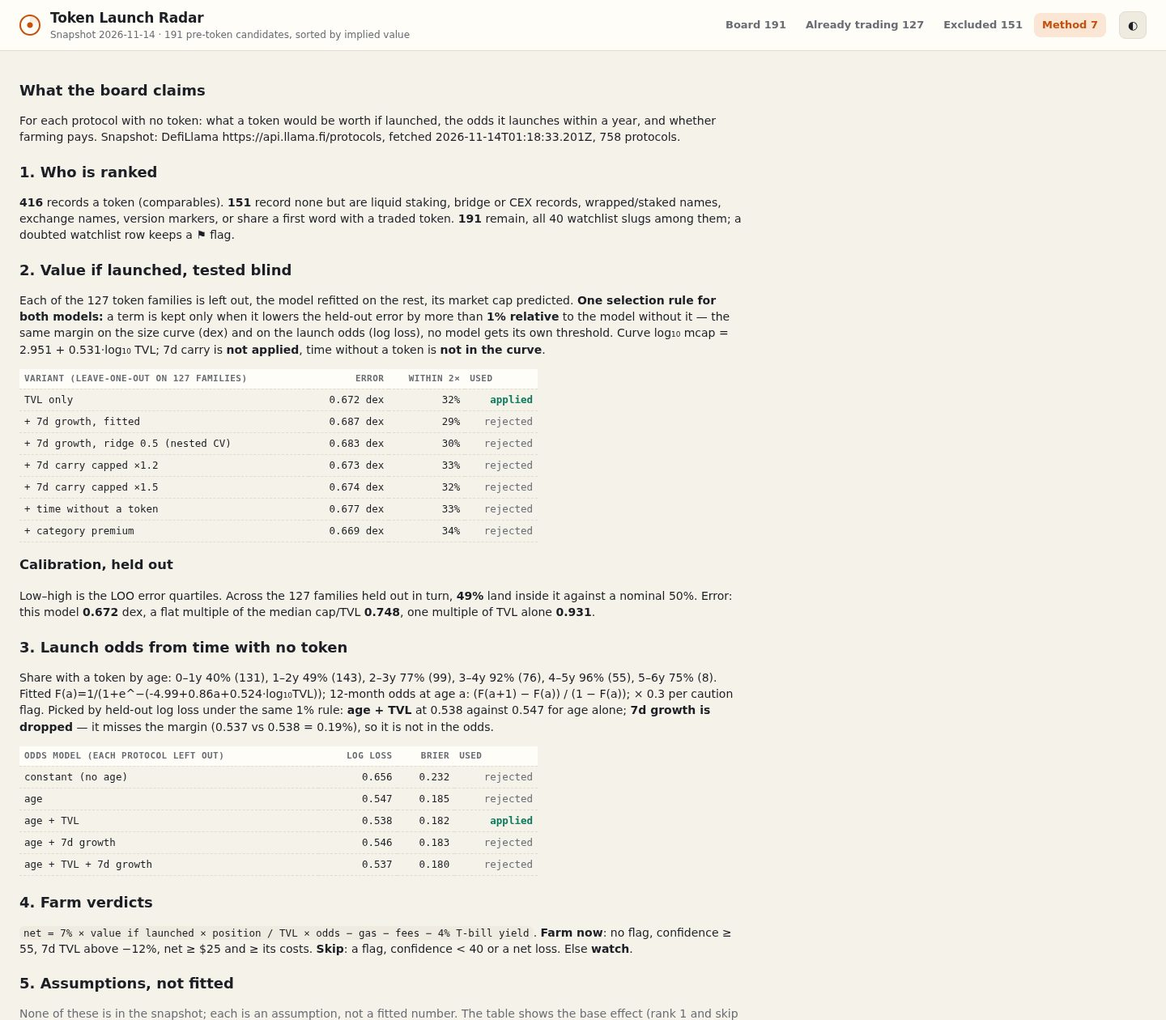
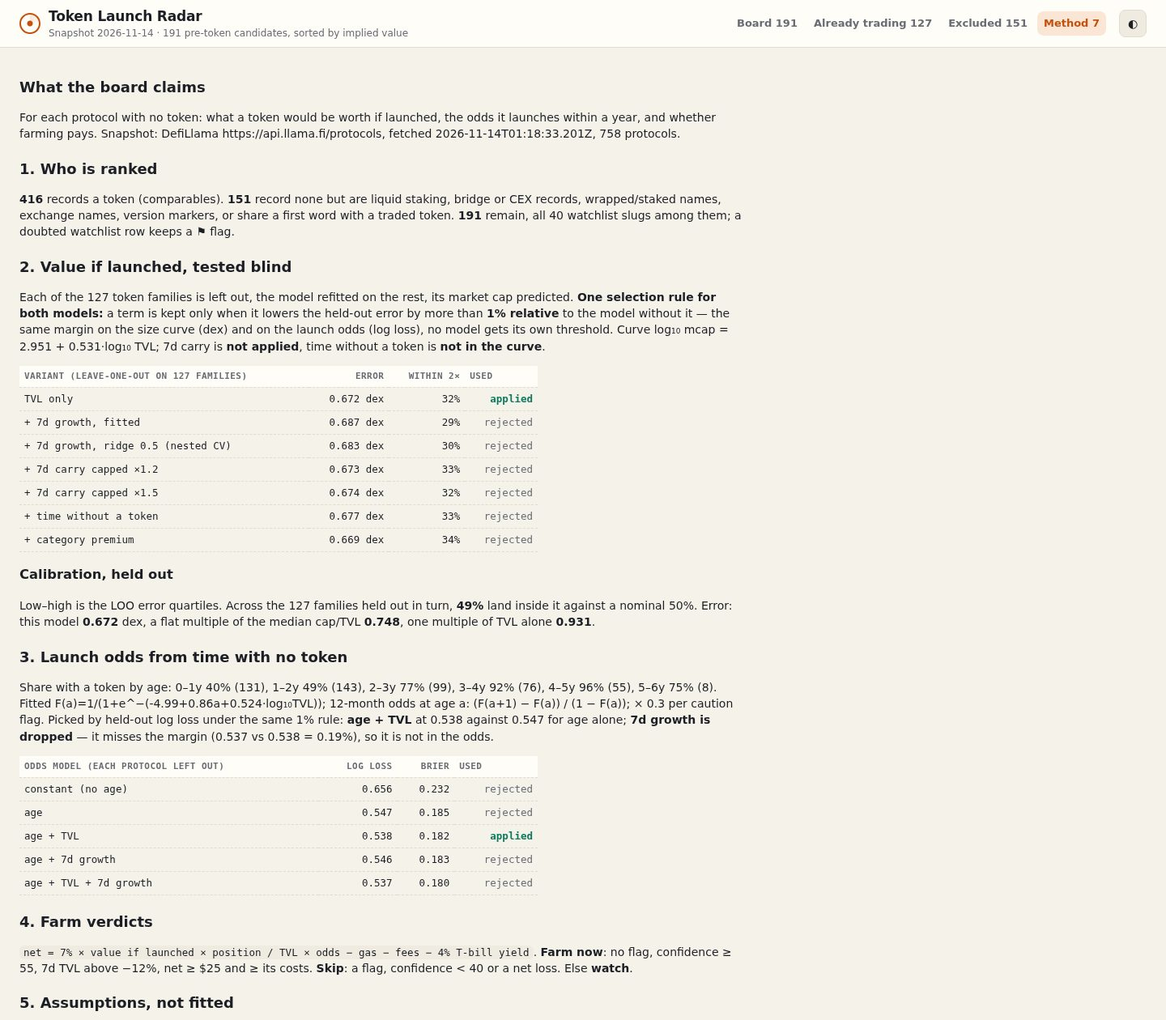
radar-v10: rewrite dashboard/app.css end to end (tokens + grouped sections, same look); board/data byte-identical, 18/18, shots 6/6

diff --git a/dashboard/app.css b/dashboard/app.css
@@ -1,21 +1,79 @@
+/* ============================================================================
+   Token Launch Radar — stylesheet
+   One palette, one type scale, one spacing scale. Every colour and every gap is
+   a custom property, so the light and dark themes differ only in the token
+   values at the top. Sections: tokens · base · header · KPI tiles · value strip
+   · checks · filters · table · compare tray · detail sheet · method · responsive.
+   The layout, sizes and colours match the v9 page exactly.
+   ========================================================================== */
+
+/* ---- tokens: colour, spacing, radius, type -------------------------------- */
 :root {
-  --bg: #f5f2ea; --card: #fffdf7; --sunk: #efebe0; --ink: #1b1e24; --muted: #686c75; --line: #e1dccf;
-  --accent: #c4500e; --accent-soft: #fbe6d6; --pos: #0e7a5f; --neg: #b3261e; --warn: #a86a00;
-  --now: #0e7a5f; --now-bg: #d9f1e8; --watch: #8a5a00; --watch-bg: #fbecc7; --skip: #5f636b; --skip-bg: #e8e6e0;
-  --peer: #9aa3b2; --hi: #c4500e; --shadow: 0 1px 2px rgb(30 25 10 / 6%), 0 8px 24px rgb(30 25 10 / 6%);
+  --bg: #f5f2ea;
+  --card: #fffdf7;
+  --sunk: #efebe0;
+  --ink: #1b1e24;
+  --muted: #686c75;
+  --line: #e1dccf;
+  --accent: #c4500e;
+  --accent-soft: #fbe6d6;
+  --pos: #0e7a5f;
+  --neg: #b3261e;
+  --warn: #a86a00;
+  --now: #0e7a5f;
+  --now-bg: #d9f1e8;
+  --watch: #8a5a00;
+  --watch-bg: #fbecc7;
+  --skip: #5f636b;
+  --skip-bg: #e8e6e0;
+  --peer: #9aa3b2;
+  --hi: #c4500e;
+  --shadow: 0 1px 2px rgb(30 25 10 / 6%), 0 8px 24px rgb(30 25 10 / 6%);
+
   --r: 10px;
+  --r-sm: 8px;
+  --r-pill: 999px;
+
+  --s1: 1px;
+  --s2: 2px;
+  --s3: 4px;
+  --s4: 6px;
+  --s5: 8px;
+  --s6: 10px;
+  --s7: 12px;
+  --s8: 16px;
+  --s9: 20px;
+  --s10: 24px;
+
   --sans: ui-sans-serif, system-ui, -apple-system, "Segoe UI", Roboto, "Helvetica Neue", Arial, sans-serif;
   --mono: ui-monospace, "SF Mono", Menlo, Consolas, monospace;
   color-scheme: light;
 }
 :root[data-theme="dark"] {
-  --bg: #0d1015; --card: #151920; --sunk: #10141a; --ink: #e9e6df; --muted: #9399a4; --line: #252b35;
-  --accent: #ff8a3d; --accent-soft: #3a2414; --pos: #3ccf9a; --neg: #ff7b72; --warn: #e5a93a;
-  --now: #3ccf9a; --now-bg: #12342a; --watch: #f0b54a; --watch-bg: #3a2e12; --skip: #a3a8b1; --skip-bg: #23272e;
-  --peer: #5b6474; --hi: #ff8a3d; --shadow: 0 1px 2px rgb(0 0 0 / 30%), 0 8px 24px rgb(0 0 0 / 25%);
+  --bg: #0d1015;
+  --card: #151920;
+  --sunk: #10141a;
+  --ink: #e9e6df;
+  --muted: #9399a4;
+  --line: #252b35;
+  --accent: #ff8a3d;
+  --accent-soft: #3a2414;
+  --pos: #3ccf9a;
+  --neg: #ff7b72;
+  --warn: #e5a93a;
+  --now: #3ccf9a;
+  --now-bg: #12342a;
+  --watch: #f0b54a;
+  --watch-bg: #3a2e12;
+  --skip: #a3a8b1;
+  --skip-bg: #23272e;
+  --peer: #5b6474;
+  --hi: #ff8a3d;
+  --shadow: 0 1px 2px rgb(0 0 0 / 30%), 0 8px 24px rgb(0 0 0 / 25%);
   color-scheme: dark;
 }
 
+/* ---- base ---------------------------------------------------------------- */
 * { box-sizing: border-box; }
 html { -webkit-text-size-adjust: 100%; }
 body { margin: 0; background: var(--bg); color: var(--ink); font: 14px/1.45 var(--sans); }
@@ -25,86 +83,94 @@ button, input, select { font: inherit; color: inherit; }
 .muted { color: var(--muted); }
 .sr { position: absolute; width: 1px; height: 1px; overflow: hidden; clip: rect(0 0 0 0); white-space: nowrap; }
 
-.top { display: flex; align-items: center; gap: 16px; padding: 10px 24px; border-bottom: 1px solid var(--line); background: var(--card); position: sticky; top: 0; z-index: 5; }
-.brand { display: flex; gap: 12px; align-items: center; min-width: 0; flex: 1; }
+/* ---- header -------------------------------------------------------------- */
+.top { display: flex; align-items: center; gap: var(--s8); padding: var(--s5) var(--s10); border-bottom: var(--s1) solid var(--line); background: var(--card); position: sticky; top: 0; z-index: 5; }
+.brand { display: flex; gap: var(--s6); align-items: center; min-width: 0; flex: 1; }
 .brand > div { min-width: 0; }
 .dot { width: 26px; height: 26px; border-radius: 50%; flex: none; border: 2px solid var(--accent);
   background: radial-gradient(circle at 50% 50%, var(--accent) 0 3px, transparent 4px), conic-gradient(from 0deg, var(--accent-soft), transparent 35%); }
 h1 { font-size: 17px; margin: 0; letter-spacing: -0.01em; }
 .sub { margin: 0; color: var(--muted); font-size: 12px; white-space: nowrap; overflow: hidden; text-overflow: ellipsis; }
-.tabs { display: flex; gap: 4px; }
-.tabs a { white-space: nowrap; padding: 6px 10px; border-radius: 8px; color: var(--muted); text-decoration: none; font-weight: 600; font-size: 13px; }
+.tabs { display: flex; gap: var(--s3); }
+.tabs a { white-space: nowrap; padding: var(--s4) var(--s5); border-radius: var(--r-sm); color: var(--muted); text-decoration: none; font-weight: 600; font-size: 13px; }
 .tabs a[aria-current="page"] { background: var(--accent-soft); color: var(--accent); }
-.theme { border: 1px solid var(--line); background: var(--sunk); border-radius: 8px; width: 34px; height: 34px; cursor: pointer; flex: none; }
-main { padding: 16px 24px 8px; max-width: 1440px; margin: 0 auto; }
-.foot { max-width: 1440px; margin: 0 auto; padding: 8px 24px 24px; color: var(--muted); font-size: 12px; }
+.theme { border: var(--s1) solid var(--line); background: var(--sunk); border-radius: var(--r-sm); width: 34px; height: 34px; cursor: pointer; flex: none; }
+main { padding: var(--s8) var(--s10) var(--s5); max-width: 1440px; margin: 0 auto; }
+.foot { max-width: 1440px; margin: 0 auto; padding: var(--s5) var(--s10) var(--s10); color: var(--muted); font-size: 12px; }
 
-.kpis { display: grid; grid-template-columns: repeat(6, minmax(0, 1fr)); gap: 8px; margin-bottom: 8px; }
-.kpi { background: var(--card); border: 1px solid var(--line); border-radius: var(--r); padding: 8px 12px; box-shadow: var(--shadow); min-width: 0; }
+/* ---- KPI tiles ----------------------------------------------------------- */
+.kpis { display: grid; grid-template-columns: repeat(6, minmax(0, 1fr)); gap: var(--s5); margin-bottom: var(--s5); }
+.kpi { background: var(--card); border: var(--s1) solid var(--line); border-radius: var(--r); padding: var(--s5) var(--s6); box-shadow: var(--shadow); min-width: 0; }
 .kpi b { display: block; font-size: 20px; letter-spacing: -0.02em; font-variant-numeric: tabular-nums; white-space: nowrap; overflow: hidden; text-overflow: ellipsis; }
 .kpi span { color: var(--muted); font-size: 12px; display: block; white-space: nowrap; overflow: hidden; text-overflow: ellipsis; }
 .kpi small { color: var(--muted); font-size: 11px; display: block; white-space: nowrap; overflow: hidden; text-overflow: ellipsis; }
 
-.split { margin: 0 0 8px; }
-.split .bar { display: flex; height: 8px; border-radius: 5px; overflow: hidden; gap: 2px; }
-.split .legend { display: flex; flex-wrap: wrap; gap: 2px 16px; font-size: 12px; color: var(--muted); margin-top: 4px; }
+/* ---- split bar + coverage line ------------------------------------------- */
+.split { margin: 0 0 var(--s5); }
+.split .bar { display: flex; height: var(--s5); border-radius: 5px; overflow: hidden; gap: var(--s2); }
+.split .legend { display: flex; flex-wrap: wrap; gap: var(--s2) var(--s8); font-size: 12px; color: var(--muted); margin-top: var(--s3); }
 .split .legend b { color: var(--ink); }
-.covline { margin: 0 0 8px; font-size: 12px; color: var(--muted); }
+.covline { margin: 0 0 var(--s5); font-size: 12px; color: var(--muted); }
 .covline b { color: var(--ink); }
-.split i { display: inline-block; width: 8px; height: 8px; border-radius: 2px; margin-right: 5px; vertical-align: -1px; }
+.split i { display: inline-block; width: var(--s5); height: var(--s5); border-radius: var(--s2); margin-right: 5px; vertical-align: -1px; }
 
-.strip { background: var(--card); border: 1px solid var(--line); border-left: 4px solid var(--accent); border-radius: var(--r); padding: 8px 12px; margin: 0 0 8px; box-shadow: var(--shadow); max-height: 120px; overflow: hidden; }
-.sform { display: flex; flex-wrap: wrap; gap: 4px 6px; align-items: center; font-size: 12px; }
+/* ---- value strip --------------------------------------------------------- */
+.strip { background: var(--card); border: var(--s1) solid var(--line); border-left: 4px solid var(--accent); border-radius: var(--r); padding: var(--s5) var(--s6); margin: 0 0 var(--s5); box-shadow: var(--shadow); max-height: 120px; overflow: hidden; }
+.sform { display: flex; flex-wrap: wrap; gap: var(--s3) var(--s4); align-items: center; font-size: 12px; }
 .stag { font-weight: 800; text-transform: uppercase; letter-spacing: .06em; font-size: 11px; color: var(--accent); }
-.sform code { font-family: var(--mono); font-size: 12px; background: var(--sunk); border-radius: 5px; padding: 1px 6px; white-space: nowrap; }
-.tchip { display: inline-flex; gap: 5px; align-items: center; background: var(--sunk); border: 1px solid var(--line); border-radius: 999px; padding: 1px 8px; white-space: nowrap; }
+.sform code { font-family: var(--mono); font-size: 12px; background: var(--sunk); border-radius: 5px; padding: 1px var(--s4); white-space: nowrap; }
+.tchip { display: inline-flex; gap: 5px; align-items: center; background: var(--sunk); border: var(--s1) solid var(--line); border-radius: var(--r-pill); padding: 1px var(--s5); white-space: nowrap; }
 .tchip b { font-size: 11px; color: var(--muted); text-transform: uppercase; letter-spacing: .04em; }
-.tchip i { font-style: normal; font-size: 11px; font-weight: 700; border-radius: 4px; padding: 0 4px; }
+.tchip i { font-style: normal; font-size: 11px; font-weight: 700; border-radius: 4px; padding: 0 var(--s3); }
 .tchip i.ok { background: var(--now-bg); color: var(--now); }
 .tchip i.rej { background: var(--skip-bg); color: var(--skip); }
-.sworked { margin-top: 4px; font-size: 12.5px; font-variant-numeric: tabular-nums; white-space: nowrap; overflow: hidden; text-overflow: ellipsis; }
+.sworked { margin-top: var(--s3); font-size: 12.5px; font-variant-numeric: tabular-nums; white-space: nowrap; overflow: hidden; text-overflow: ellipsis; }
 .sworked b { color: var(--accent); }
 .yours { color: var(--warn); font-weight: 700; }
 
-.checks { display: flex; align-items: center; gap: 10px; flex-wrap: wrap; background: var(--card); border: 1px solid var(--line); border-radius: var(--r); padding: 5px 12px; margin: 0 0 8px; font-size: 12px; }
+/* ---- checks strip -------------------------------------------------------- */
+.checks { display: flex; align-items: center; gap: var(--s5); flex-wrap: wrap; background: var(--card); border: var(--s1) solid var(--line); border-radius: var(--r); padding: 5px var(--s6); margin: 0 0 var(--s5); font-size: 12px; }
 .checks .ctitle { font-weight: 700; white-space: nowrap; }
 .checks.ok .ctitle { color: var(--pos); } .checks.bad .ctitle { color: var(--neg); } .checks.run .ctitle { color: var(--muted); }
-.csum { display: flex; flex-wrap: wrap; gap: 2px 10px; flex: 1; min-width: 0; }
+.csum { display: flex; flex-wrap: wrap; gap: var(--s2) var(--s5); flex: 1; min-width: 0; }
 .checks details { min-width: 0; }
 .checks summary { cursor: pointer; list-style: none; white-space: nowrap; color: var(--muted); }
 .checks summary::-webkit-details-marker { display: none; }
 .checks summary i { font-style: normal; font-weight: 800; }
 .checks details.ok summary i { color: var(--pos); } .checks details.bad summary i { color: var(--neg); }
 .checks summary b { color: var(--ink); }
-.checks details p { margin: 4px 0 2px; color: var(--muted); max-width: 70ch; white-space: normal; }
+.checks details p { margin: var(--s3) 0 var(--s2); color: var(--muted); max-width: 70ch; white-space: normal; }
 
-.filters { display: flex; flex-wrap: wrap; gap: 6px; align-items: center; background: var(--card); border: 1px solid var(--line); border-radius: var(--r); padding: 8px; margin-bottom: 6px; }
+/* ---- filters + chips ----------------------------------------------------- */
+.filters { display: flex; flex-wrap: wrap; gap: var(--s4); align-items: center; background: var(--card); border: var(--s1) solid var(--line); border-radius: var(--r); padding: var(--s5); margin-bottom: var(--s4); }
 .filters input[type="search"] { flex: 1 1 200px; min-width: 140px; }
-.filters input, .filters select, .btn { background: var(--sunk); border: 1px solid var(--line); border-radius: 8px; padding: 6px 8px; }
+.filters input, .filters select, .btn { background: var(--sunk); border: var(--s1) solid var(--line); border-radius: var(--r-sm); padding: var(--s4) var(--s5); }
 .btn { cursor: pointer; font-size: 13px; white-space: nowrap; }
 .btn:hover { border-color: var(--accent); color: var(--accent); }
-.seg { display: inline-flex; border: 1px solid var(--line); border-radius: 8px; overflow: hidden; }
-.seg button { border: 0; background: var(--sunk); padding: 6px 9px; cursor: pointer; font-size: 13px; }
-.seg button + button { border-left: 1px solid var(--line); }
+.seg { display: inline-flex; border: var(--s1) solid var(--line); border-radius: var(--r-sm); overflow: hidden; }
+.seg button { border: 0; background: var(--sunk); padding: var(--s4) 9px; cursor: pointer; font-size: 13px; }
+.seg button + button { border-left: var(--s1) solid var(--line); }
 .seg button[aria-pressed="true"] { background: var(--accent); color: #fff; }
-.chips { display: flex; flex-wrap: wrap; gap: 6px; align-items: center; margin: 0 0 6px; min-height: 22px; font-size: 12px; }
-.chip { display: inline-flex; gap: 6px; align-items: center; background: var(--accent-soft); color: var(--accent); border-radius: 999px; padding: 2px 4px 2px 10px; font-weight: 600; }
-.chip button { border: 0; background: transparent; color: inherit; cursor: pointer; padding: 0 6px; font-weight: 700; }
+.chips { display: flex; flex-wrap: wrap; gap: var(--s4); align-items: center; margin: 0 0 var(--s4); min-height: 22px; font-size: 12px; }
+.chip { display: inline-flex; gap: var(--s4); align-items: center; background: var(--accent-soft); color: var(--accent); border-radius: var(--r-pill); padding: var(--s2) var(--s3) var(--s2) var(--s5); font-weight: 600; }
+.chip button { border: 0; background: transparent; color: inherit; cursor: pointer; padding: 0 var(--s4); font-weight: 700; }
 .chips .clear { border: 0; background: none; color: var(--muted); text-decoration: underline; cursor: pointer; }
 
-.asm { background: var(--card); border: 1px solid var(--warn); border-radius: var(--r); padding: 10px 12px; margin: 0 0 8px; }
-.asmhead { display: flex; flex-wrap: wrap; gap: 4px 12px; align-items: baseline; }
+/* ---- assumptions drawer -------------------------------------------------- */
+.asm { background: var(--card); border: var(--s1) solid var(--warn); border-radius: var(--r); padding: var(--s5) var(--s6); margin: 0 0 var(--s5); }
+.asmhead { display: flex; flex-wrap: wrap; gap: var(--s3) var(--s6); align-items: baseline; }
 .asmhead b { color: var(--warn); }
-.asgrid { display: grid; grid-template-columns: repeat(3, minmax(0, 1fr)); gap: 8px 16px; margin-top: 6px; }
+.asgrid { display: grid; grid-template-columns: repeat(3, minmax(0, 1fr)); gap: var(--s5) var(--s8); margin-top: var(--s4); }
 .as { font-size: 12px; }
 .as span b { color: var(--ink); }
 .as small { display: block; color: var(--muted); font-size: 11px; }
 .as input[type="range"] { width: 100%; accent-color: var(--warn); }
-.asmnote { margin: 6px 0 0; font-size: 12px; color: var(--muted); }
+.asmnote { margin: var(--s4) 0 0; font-size: 12px; color: var(--muted); }
 
-.tablewrap { background: var(--card); border: 1px solid var(--line); border-radius: var(--r); box-shadow: var(--shadow); overflow: auto; }
+/* ---- board table --------------------------------------------------------- */
+.tablewrap { background: var(--card); border: var(--s1) solid var(--line); border-radius: var(--r); box-shadow: var(--shadow); overflow: auto; }
 table { width: 100%; border-collapse: collapse; }
-th, td { padding: 5px 8px; text-align: left; border-bottom: 1px solid var(--line); vertical-align: middle; }
+th, td { padding: 5px var(--s5); text-align: left; border-bottom: var(--s1) solid var(--line); vertical-align: middle; }
 th { position: sticky; top: 0; background: var(--card); font-size: 11px; text-transform: uppercase; letter-spacing: 0.04em; color: var(--muted); z-index: 1; white-space: nowrap; }
 th button { all: unset; cursor: pointer; }
 th[aria-sort="ascending"] button::after { content: " ▲"; color: var(--accent); }
@@ -116,85 +182,89 @@ td.n, th.n { text-align: right; }
 .pname { font-weight: 650; white-space: nowrap; }
 td.cat { max-width: 128px; white-space: nowrap; overflow: hidden; text-overflow: ellipsis; }
 small.net { display: block; font-size: 11px; margin-top: 1px; font-weight: 600; }
-.chain { font-size: 12px; color: var(--muted); margin: 2px 0 4px; }
+.chain { font-size: 12px; color: var(--muted); margin: var(--s2) 0 var(--s3); }
 .chain b { color: var(--ink); }
-.tag { display: inline-block; font-size: 10px; font-weight: 700; padding: 1px 6px; border-radius: 4px; margin-left: 6px; vertical-align: 1px; background: var(--sunk); color: var(--muted); border: 1px solid var(--line); }
+.tag { display: inline-block; font-size: 10px; font-weight: 700; padding: 1px var(--s4); border-radius: 4px; margin-left: var(--s4); vertical-align: 1px; background: var(--sunk); color: var(--muted); border: var(--s1) solid var(--line); }
 .tag.w { background: var(--accent-soft); color: var(--accent); border-color: transparent; }
 .tag.f { color: var(--warn); }
 .chainlist { color: var(--muted); font-size: 12px; white-space: nowrap; }
-.tvl { display: flex; align-items: center; gap: 8px; justify-content: flex-end; white-space: nowrap; }
+.tvl { display: flex; align-items: center; gap: var(--s5); justify-content: flex-end; white-space: nowrap; }
 .d7 { font-size: 12px; min-width: 52px; text-align: right; }
 .up { color: var(--pos); } .down { color: var(--neg); }
-.range { display: grid; grid-template-columns: 1fr auto; gap: 1px 8px; align-items: center; min-width: 170px; }
+.range { display: grid; grid-template-columns: 1fr auto; gap: 1px var(--s5); align-items: center; min-width: 170px; }
 .range b { font-variant-numeric: tabular-nums; }
 .range small { grid-column: 1 / -1; color: var(--muted); font-size: 11px; }
-.meter { display: inline-block; width: 46px; height: 6px; border-radius: 3px; background: var(--sunk); border: 1px solid var(--line); vertical-align: middle; margin-right: 6px; overflow: hidden; }
+.meter { display: inline-block; width: 46px; height: 6px; border-radius: 3px; background: var(--sunk); border: var(--s1) solid var(--line); vertical-align: middle; margin-right: var(--s4); overflow: hidden; }
 .meter i { display: block; height: 100%; background: var(--accent); }
-.pill { display: inline-block; border-radius: 999px; padding: 2px 9px; font-size: 12px; font-weight: 700; white-space: nowrap; }
+.pill { display: inline-block; border-radius: var(--r-pill); padding: var(--s2) 9px; font-size: 12px; font-weight: 700; white-space: nowrap; }
 .pill.now { background: var(--now-bg); color: var(--now); }
 .pill.watch { background: var(--watch-bg); color: var(--watch); }
 .pill.skip { background: var(--skip-bg); color: var(--skip); }
 td.cmp, th.cmp { text-align: center; width: 28px; }
-td.cmp button { border: 1px solid var(--line); background: var(--sunk); border-radius: 6px; cursor: pointer; width: 22px; height: 22px; font-weight: 700; }
+td.cmp button { border: var(--s1) solid var(--line); background: var(--sunk); border-radius: 6px; cursor: pointer; width: 22px; height: 22px; font-weight: 700; }
 td.cmp button[aria-pressed="true"] { background: var(--accent); color: #fff; border-color: var(--accent); }
-.empty { padding: 24px; text-align: center; color: var(--muted); }
+.empty { padding: var(--s10); text-align: center; color: var(--muted); }
 svg text { fill: var(--muted); font: 10px var(--sans); }
 
-.cmpbar { position: sticky; bottom: 0; margin: 8px 0 0; background: var(--card); border: 1px solid var(--accent); border-radius: var(--r); box-shadow: var(--shadow); padding: 8px 12px; }
-.cmphead { display: flex; gap: 10px; align-items: baseline; flex-wrap: wrap; font-size: 12px; margin-bottom: 4px; }
+/* ---- compare tray -------------------------------------------------------- */
+.cmpbar { position: sticky; bottom: 0; margin: var(--s5) 0 0; background: var(--card); border: var(--s1) solid var(--accent); border-radius: var(--r); box-shadow: var(--shadow); padding: var(--s5) var(--s6); }
+.cmphead { display: flex; gap: var(--s5); align-items: baseline; flex-wrap: wrap; font-size: 12px; margin-bottom: var(--s3); }
 .cmpgrid { overflow-x: auto; }
 .cmpgrid table { table-layout: fixed; min-width: 560px; }
 .cmpgrid th { position: static; width: 130px; text-transform: none; letter-spacing: 0; color: var(--muted); font-weight: 600; font-size: 12px; }
 .cmpgrid td { font-size: 12.5px; }
 
+/* ---- detail sheet -------------------------------------------------------- */
 .sheet { position: fixed; inset: 0; z-index: 10; }
 .scrim { position: absolute; inset: 0; background: rgb(10 10 10 / 45%); }
-.cols { display: grid; gap: 0 14px; }
+.cols { display: grid; gap: 0 var(--s7); }
 .cols > div, .grid2 > *, .card { min-width: 0; }
 .card { overflow-x: auto; }
 @media (min-width: 1200px) { .cols { grid-template-columns: 1.1fr 1fr; align-items: start; } }
-.panel { position: absolute; top: 0; right: 0; bottom: 0; width: min(1440px, 100%); background: var(--bg); overflow: auto; padding: 20px 24px 40px; box-shadow: var(--shadow); outline: none; }
+.panel { position: absolute; top: 0; right: 0; bottom: 0; width: min(1440px, 100%); background: var(--bg); overflow: auto; padding: var(--s9) var(--s10) 40px; box-shadow: var(--shadow); outline: none; }
 .panel h2 { margin: 0; font-size: 22px; letter-spacing: -0.02em; }
-.panel h3 { font-size: 12px; text-transform: uppercase; letter-spacing: 0.05em; color: var(--muted); margin: 0 0 8px; }
-.phead { display: flex; justify-content: space-between; gap: 12px; align-items: flex-start; margin-bottom: 12px; }
-.close { border: 1px solid var(--line); background: var(--card); border-radius: 8px; padding: 6px 10px; cursor: pointer; }
-.card { background: var(--card); border: 1px solid var(--line); border-radius: var(--r); padding: 12px 14px; margin-bottom: 10px; }
-.grid2 { display: grid; grid-template-columns: 1fr 1fr; gap: 8px; }
+.panel h3 { font-size: 12px; text-transform: uppercase; letter-spacing: 0.05em; color: var(--muted); margin: 0 0 var(--s5); }
+.phead { display: flex; justify-content: space-between; gap: var(--s6); align-items: flex-start; margin-bottom: var(--s6); }
+.close { border: var(--s1) solid var(--line); background: var(--card); border-radius: var(--r-sm); padding: var(--s4) var(--s5); cursor: pointer; }
+.card { background: var(--card); border: var(--s1) solid var(--line); border-radius: var(--r); padding: var(--s6) var(--s7); margin-bottom: var(--s5); }
+.grid2 { display: grid; grid-template-columns: 1fr 1fr; gap: var(--s5); }
 .big { font-size: 26px; font-weight: 750; letter-spacing: -0.02em; font-variant-numeric: tabular-nums; }
 .math { font: 12.5px/1.6 var(--mono); width: 100%; }
-.math td, .math th { padding: 3px 6px; border-bottom: 1px dashed var(--line); }
+.math td, .math th { padding: var(--s3) var(--s4); border-bottom: var(--s1) dashed var(--line); }
 .math td:last-child { text-align: right; white-space: nowrap; vertical-align: top; }
 .math td:first-child { overflow-wrap: anywhere; }
-.math tr.tot td { font-weight: 700; border-bottom: 0; border-top: 1px solid var(--ink); }
+.math tr.tot td { font-weight: 700; border-bottom: 0; border-top: var(--s1) solid var(--ink); }
 table.wf { width: 100%; }
-table.wf td { border-bottom: 1px dashed var(--line); font-size: 12.5px; }
-table.wf tr.tot td { font-weight: 700; border-bottom: 0; border-top: 1px solid var(--ink); }
-.wbar { display: block; background: var(--sunk); border-radius: 4px; height: 8px; min-width: 60px; overflow: hidden; }
+table.wf td { border-bottom: var(--s1) dashed var(--line); font-size: 12.5px; }
+table.wf tr.tot td { font-weight: 700; border-bottom: 0; border-top: var(--s1) solid var(--ink); }
+.wbar { display: block; background: var(--sunk); border-radius: 4px; height: var(--s5); min-width: 60px; overflow: hidden; }
 .wbar i { display: block; height: 100%; background: var(--accent); border-radius: 4px; }
 ol.steps { margin: 0; padding: 0; list-style: none; counter-reset: s; }
-ol.steps li { counter-increment: s; display: grid; grid-template-columns: 24px 1fr; gap: 8px; padding: 6px 0; border-bottom: 1px solid var(--line); }
+ol.steps li { counter-increment: s; display: grid; grid-template-columns: 24px 1fr; gap: var(--s5); padding: var(--s4) 0; border-bottom: var(--s1) solid var(--line); }
 ol.steps li::before { content: counter(s); width: 22px; height: 22px; border-radius: 50%; background: var(--accent-soft); color: var(--accent); font-weight: 700; display: grid; place-items: center; font-size: 12px; }
-ol.steps label { display: flex; gap: 8px; align-items: flex-start; cursor: pointer; }
-ol.steps input { margin-top: 3px; accent-color: var(--accent); }
+ol.steps label { display: flex; gap: var(--s5); align-items: flex-start; cursor: pointer; }
+ol.steps input { margin-top: var(--s3); accent-color: var(--accent); }
 ol.steps input:checked + span { color: var(--muted); text-decoration: line-through; }
-.ct { display: inline-block; margin-left: 10px; color: var(--muted); font-size: 12px; font-variant-numeric: tabular-nums; }
+.ct { display: inline-block; margin-left: var(--s5); color: var(--muted); font-size: 12px; font-variant-numeric: tabular-nums; }
 .ct i { font-style: normal; }
 .ct .when { font-weight: 600; }
-ul.risks { margin: 0; padding-left: 18px; }
-ul.risks li { margin: 3px 0; }
-.facts { display: flex; flex-wrap: wrap; gap: 4px 16px; font-size: 12px; color: var(--muted); margin-bottom: 8px; }
+ul.risks { margin: 0; padding-left: var(--s8); }
+ul.risks li { margin: var(--s3) 0; }
+.facts { display: flex; flex-wrap: wrap; gap: var(--s3) var(--s8); font-size: 12px; color: var(--muted); margin-bottom: var(--s5); }
 .facts b { color: var(--ink); }
-.facts2 { display: grid; grid-template-columns: 1fr 1fr; gap: 8px; margin: 0 0 8px; font-size: 12.5px; }
+.facts2 { display: grid; grid-template-columns: 1fr 1fr; gap: var(--s5); margin: 0 0 var(--s5); font-size: 12.5px; }
 .facts2 b { display: block; font-size: 11px; text-transform: uppercase; letter-spacing: .04em; color: var(--muted); }
-.facts2 p { margin: 2px 0 0; }
-.peers td, .peers th { padding: 4px 6px; font-size: 12px; }
+.facts2 p { margin: var(--s2) 0 0; }
+.peers td, .peers th { padding: var(--s3) var(--s4); font-size: 12px; }
 
+/* ---- method prose -------------------------------------------------------- */
 .prose { max-width: 900px; overflow-x: auto; }
-.prose h2 { font-size: 18px; margin: 20px 0 6px; }
+.prose h2 { font-size: 18px; margin: var(--s9) 0 var(--s4); }
 .prose code, .prose pre { font-family: var(--mono); font-size: 12.5px; background: var(--sunk); border-radius: 6px; padding: 1px 5px; }
-.prose pre { padding: 12px; overflow: auto; }
-.note { border-left: 3px solid var(--accent); padding: 8px 12px; background: var(--card); border-radius: 0 8px 8px 0; }
+.prose pre { padding: var(--s6); overflow: auto; }
+.note { border-left: 3px solid var(--accent); padding: var(--s5) var(--s6); background: var(--card); border-radius: 0 var(--r-sm) var(--r-sm) 0; }
 
+/* ---- responsive ---------------------------------------------------------- */
 @media (max-width: 1100px) {
   .kpis { grid-template-columns: repeat(3, minmax(0, 1fr)); }
   .hide-md { display: none; }
@@ -203,16 +273,16 @@ ul.risks li { margin: 3px 0; }
 @media (max-width: 720px) {
   .checks { display: block; }
   .checks summary { white-space: normal; }
-  .top { flex-wrap: wrap; padding: 8px 16px; }
+  .top { flex-wrap: wrap; padding: var(--s5) var(--s8); }
   .tabs { order: 3; width: 100%; overflow-x: auto; }
-  main { padding: 12px 16px 8px; }
+  main { padding: var(--s6) var(--s8) var(--s5); }
   .kpis { grid-template-columns: repeat(2, minmax(0, 1fr)); }
   .hide-sm { display: none; }
   .range { min-width: 0; }
   .grid2 { grid-template-columns: 1fr; }
   .facts2 { grid-template-columns: 1fr; }
-  .panel { padding: 14px 16px; }
-  th, td { padding: 6px; }
+  .panel { padding: var(--s7) var(--s8); }
+  th, td { padding: var(--s4); }
   .strip { max-height: none; }
   .sworked { white-space: normal; }
 }
